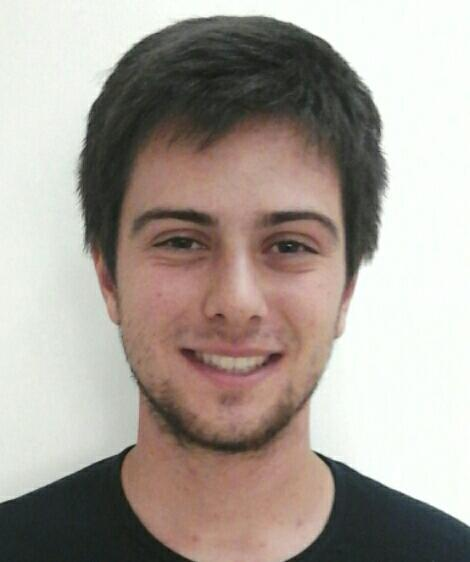
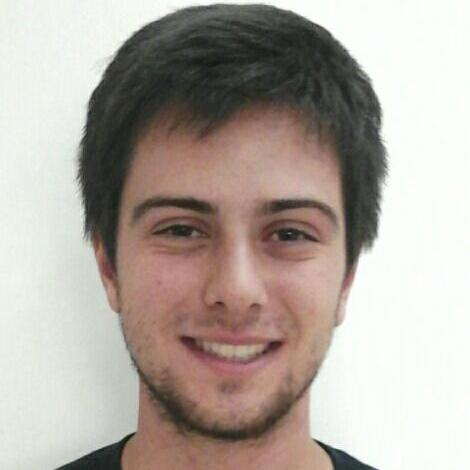
Actualización de nuestros caretos: Recorte de una imagen + Cambio nombre JJ a Jota (2019/2020)

diff --git a/index.html b/index.html
@@ -489,7 +489,7 @@
                 src: "David_Poblacion.jpeg",
             },
             {
-                name: "JJ",
+                name: "Jota",
                 src: "jaime_santamarta.jpg",
             }
         ];
